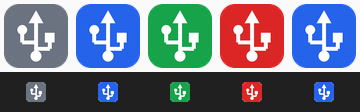
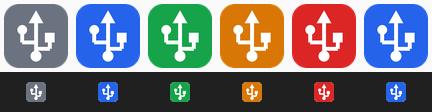
Fix false "tethering on" report; add no-carrier state (1.2.0)
Tether detection treated the mere existence of rndis0/ncm0/usb0 as proof
that sharing worked. It is not: after an Android upgrade an orphaned usb0
interface can stay up and even hold the tether IP while the USB carrier
never comes up, so zero packets flow in either direction. The app showed
green throughout a real outage.

Detection now keys on the LOWER_UP flag in the interface flags, which is
the signal that actually distinguishes a live link from a dead one. A new
amber "looks on but no data" state surfaces the dead-link case and tells
the user to reboot the phone, which is what clears the orphaned interface;
the watcher no longer retries setFunctions pointlessly in that state.

Also stop the SDK appending "+<git-hash>" to InformationalVersion, which
was leaking into the installer filename.

diff --git a/src/UsbTetherAuto/AdbService.cs b/src/UsbTetherAuto/AdbService.cs
@@ -18,6 +18,21 @@ internal enum DeviceState
 
 internal sealed record DeviceInfo(DeviceState State, string? Serial);
 
+/// <summary>
+/// Tethering arabiriminin gercek durumu. Arabirimin VAR OLMASI paylasimin
+/// calistigi anlamina gelmez: bir Android guncellemesinden sonra sahipsiz kalan
+/// arabirim IP bile alabilir, ama tasiyici (carrier) hic kalkmaz ve tek paket akmaz.
+/// </summary>
+internal enum TetherLink
+{
+    /// <summary>Tethering arabirimi yok.</summary>
+    Off,
+    /// <summary>Arabirim var ama tasiyici yok - veri akmiyor.</summary>
+    NoCarrier,
+    /// <summary>Arabirim ayakta ve tasiyici var - veri akiyor.</summary>
+    Up
+}
+
 /// <summary>Tethering'i acmak icin denenecek bir yontem.</summary>
 internal sealed record TetherMethod(string Name, string Description, string[] Args);
 
@@ -41,7 +56,10 @@ internal sealed partial class AdbService(Func<string?> adbPathProvider)
     [GeneratedRegex(@"mCurrentFunctions\s*[:=]\s*([^\r\n]*)", RegexOptions.IgnoreCase)]
     private static partial Regex CurrentFunctionsRegex();
 
-    [GeneratedRegex(@"\b(rndis0|ncm0|usb0)\b", RegexOptions.IgnoreCase)]
+    // "47: rndis0: <BROADCAST,MULTICAST,UP,LOWER_UP> mtu 1500 ..." satirindan
+    // arabirim adini ve bayraklarini birlikte yakalar.
+    [GeneratedRegex(@"^\s*\d+:\s*(rndis\d|ncm\d|usb\d):\s*<([^>]*)>",
+                    RegexOptions.IgnoreCase | RegexOptions.Multiline)]
     private static partial Regex TetherInterfaceRegex();
 
     // ---------------- adb.exe bulma ----------------
@@ -204,22 +222,31 @@ internal sealed partial class AdbService(Func<string?> adbPathProvider)
             : model;
     }
 
-    /// <summary>Tethering acik mi? Iki bagimsiz sinyale bakilir.</summary>
-    public async Task<bool> IsTetheredAsync(string? serial, CancellationToken token)
+    /// <summary>
+    /// Tethering arabiriminin gercek durumunu olcer.
+    ///
+    /// Yalnizca arabirimin varligina veya USB fonksiyonunun RNDIS olmasina bakmak
+    /// yaniltici: ikisi de dogruyken tasiyici kalkmayabilir ve hicbir veri akmaz.
+    /// Belirleyici sinyal arabirim bayraklarindaki LOWER_UP'tir.
+    /// </summary>
+    public async Task<TetherLink> GetLinkAsync(string? serial, CancellationToken token)
     {
-        var usb = await ShellAsync(serial, token, "shell", "dumpsys", "usb").ConfigureAwait(false);
-        var match = CurrentFunctionsRegex().Match(usb);
-        if (match.Success)
-        {
-            var functions = match.Groups[1].Value;
-            if (functions.Contains("rndis", StringComparison.OrdinalIgnoreCase) ||
-                functions.Contains("ncm", StringComparison.OrdinalIgnoreCase))
-                return true;
-        }
-
         var links = await ShellAsync(serial, token, "shell", "ip", "-o", "link").ConfigureAwait(false);
-        return TetherInterfaceRegex().IsMatch(links);
+
+        var best = TetherLink.Off;
+        foreach (Match m in TetherInterfaceRegex().Matches(links))
+        {
+            // LOWER_UP = USB tasiyicisi var. UP tek basina yeterli degil.
+            if (m.Groups[2].Value.Contains("LOWER_UP", StringComparison.OrdinalIgnoreCase))
+                return TetherLink.Up;
+            best = TetherLink.NoCarrier;
+        }
+        return best;
     }
+
+    /// <summary>Yalnizca paylasim gercekten calisiyorsa true.</summary>
+    public async Task<bool> IsTetheredAsync(string? serial, CancellationToken token) =>
+        await GetLinkAsync(serial, token).ConfigureAwait(false) == TetherLink.Up;
 
     // ---------------- acma / kapama ----------------
 

diff --git a/src/UsbTetherAuto/TetherWatcher.cs b/src/UsbTetherAuto/TetherWatcher.cs
@@ -8,6 +8,8 @@ internal enum TetherStatus
     Connected,
     Enabling,
     Tethered,
+    /// <summary>Arabirim ayakta ama tasiyici yok: paylasim acik gorunur, veri akmaz.</summary>
+    NoCarrier,
     Failed
 }
 
@@ -25,6 +27,7 @@ internal sealed class StatusEventArgs(TetherStatus status, string? deviceModel, 
         TetherStatus.Connected => "Bagli - tethering kapali",
         TetherStatus.Enabling => "Tethering aciliyor...",
         TetherStatus.Tethered => "Tethering acik",
+        TetherStatus.NoCarrier => "Acik gorunuyor ama veri akmiyor",
         TetherStatus.Failed => "Tethering acilamadi",
         _ => "Bilinmiyor"
     };
@@ -139,7 +142,9 @@ internal sealed class TetherWatcher(AdbService adb, AppSettings settings) : IDis
             Logger.Info($"Cihaz baglandi: {_model ?? "(model okunamadi)"} [{_serial}]");
         }
 
-        if (await adb.IsTetheredAsync(_serial, token).ConfigureAwait(false))
+        var link = await adb.GetLinkAsync(_serial, token).ConfigureAwait(false);
+
+        if (link == TetherLink.Up)
         {
             var wasOff = _status != TetherStatus.Tethered;
             _failures = 0;
@@ -147,6 +152,20 @@ internal sealed class TetherWatcher(AdbService adb, AppSettings settings) : IDis
             if (wasOff)
                 Raise(Notification, new NotifyEventArgs("USB Tether Auto",
                     $"{_model ?? "Telefon"} - internet paylasimi acik.", ToolTipIcon.Info));
+            return;
+        }
+
+        if (link == TetherLink.NoCarrier)
+        {
+            // Arabirim duruyor ama USB tasiyicisi kalkmamis. setFunctions'i tekrar
+            // denemek bu durumu duzeltmiyor; kullaniciya ne yapacagini soyluyoruz.
+            var wasOk = _status != TetherStatus.NoCarrier;
+            SetStatus(TetherStatus.NoCarrier,
+                "Telefonu yeniden baslatin: paylasim arabirimi takili kalmis olabilir.");
+            if (wasOk)
+                Raise(Notification, new NotifyEventArgs("USB Tether Auto",
+                    "Paylasim acik gorunuyor ama veri akmiyor. Telefonu yeniden baslatin.",
+                    ToolTipIcon.Warning));
             return;
         }
 

diff --git a/src/UsbTetherAuto/IconStore.cs b/src/UsbTetherAuto/IconStore.cs
@@ -14,6 +14,7 @@ internal static class IconStore
     {
         TetherStatus.Tethered => Get("trayTethered"),
         TetherStatus.Connected or TetherStatus.Enabling => Get("trayConnected"),
+        TetherStatus.NoCarrier => Get("trayWarn"),
         TetherStatus.Failed or TetherStatus.AdbMissing or TetherStatus.Unauthorized => Get("trayError"),
         _ => Get("trayOff")
     };
@@ -22,6 +23,7 @@ internal static class IconStore
     {
         TetherStatus.Tethered => Color.FromArgb(0x16, 0xA3, 0x4A),
         TetherStatus.Connected or TetherStatus.Enabling => Color.FromArgb(0x25, 0x63, 0xEB),
+        TetherStatus.NoCarrier => Color.FromArgb(0xD9, 0x77, 0x06),
         TetherStatus.Failed or TetherStatus.AdbMissing or TetherStatus.Unauthorized => Color.FromArgb(0xDC, 0x26, 0x26),
         _ => Color.FromArgb(0x6B, 0x72, 0x80)
     };

diff --git a/src/UsbTetherAuto/MainForm.cs b/src/UsbTetherAuto/MainForm.cs
@@ -439,9 +439,10 @@ internal sealed class MainForm : Form
         if (e.Status == TetherStatus.Unauthorized) parts.Add("Telefondaki izin penceresini onaylayin.");
         _detail.Text = string.Join("  -  ", parts);
 
-        var deviceReady = e.Status is TetherStatus.Connected or TetherStatus.Tethered or TetherStatus.Failed;
+        var deviceReady = e.Status is TetherStatus.Connected or TetherStatus.Tethered
+                                   or TetherStatus.NoCarrier or TetherStatus.Failed;
         _btnEnable.Enabled = !_busy && deviceReady && e.Status != TetherStatus.Tethered;
-        _btnDisable.Enabled = !_busy && e.Status == TetherStatus.Tethered;
+        _btnDisable.Enabled = !_busy && e.Status is TetherStatus.Tethered or TetherStatus.NoCarrier;
         _btnRefresh.Enabled = !_busy;
     }
 

diff --git a/src/UsbTetherAuto/TrayApplicationContext.cs b/src/UsbTetherAuto/TrayApplicationContext.cs
@@ -91,8 +91,9 @@ internal sealed class TrayApplicationContext : ApplicationContext
             _tray.Text = tip.Length > 62 ? tip[..62] : tip;
 
             _miStatus.Text = $"Durum: {e.Headline}";
-            _miEnable.Enabled = e.Status is TetherStatus.Connected or TetherStatus.Failed;
-            _miDisable.Enabled = e.Status == TetherStatus.Tethered;
+            _miEnable.Enabled = e.Status is TetherStatus.Connected or TetherStatus.Failed
+                                         or TetherStatus.NoCarrier;
+            _miDisable.Enabled = e.Status is TetherStatus.Tethered or TetherStatus.NoCarrier;
         }
 
         RunOnUi(Apply);

diff --git a/tools/make_icons.py b/tools/make_icons.py
@@ -11,6 +11,7 @@ STATES = {
     'trayOff':      (0x6B, 0x72, 0x80, 255),   # gri  - cihaz yok
     'trayConnected':(0x25, 0x63, 0xEB, 255),   # mavi - bagli, tethering kapali
     'trayTethered': (0x16, 0xA3, 0x4A, 255),   # yesil- tethering acik
+    'trayWarn':     (0xD9, 0x77, 0x06, 255),   # amber - acik ama veri akmiyor
     'trayError':    (0xDC, 0x26, 0x26, 255),   # kirmizi - hata
     'usb':          (0x25, 0x63, 0xEB, 255),   # uygulama ikonu
 }

diff --git a/README.md b/README.md
@@ -13,7 +13,8 @@ setFunctions` destekleyen diger Android cihazlarda da calismasi beklenir.
 |---|---|
 | Gri | Telefon bagli degil |
 | Mavi | Telefon bagli, tethering kapali (aciliyor) |
-| Yesil | Tethering acik |
+| Yesil | Tethering acik ve veri akiyor |
+| Amber | Arabirim var ama tasiyici yok - acik gorunuyor, veri akmiyor |
 | Kirmizi | adb yok / izin verilmedi / acilamadi |
 
 ## Neden bir uygulama degil de PC tarafinda?
@@ -163,6 +164,22 @@ Kalan secenekler:
   (`adb shell pm grant <paket> android.permission.WRITE_SECURE_SETTINGS`)
   ve "Power connected" tetigine tethering aksiyonunu baglamak.
 - Root varsa `root-rndis` yontemi zaten sirada.
+
+**Simge amber: "Acik gorunuyor ama veri akmiyor"** - Telefonu yeniden baslatin.
+Bu, pratikte gorulmus gercek bir ariza: bir Android surum yukseltmesinden sonra
+telefonda `usb0` adinda sahipsiz bir arabirim kalabiliyor. Android'in tethering
+yapilandirmasi USB arabirimlerini `[usb\d, rndis\d]` sirasiyla aradigi icin
+IP'yi ve DHCP sunucusunu o olu arabirime bagliyor; gercek gadget arabirimi
+(`rndis0`) ise `NO-CARRIER` durumunda bekliyor. Sonuc: telefon da PC de
+"bagli" der, Windows `169.254.x.x` (APIPA) alir, iki yonde de sifir paket akar.
+Telefonu yeniden baslatmak kalinti arabirimi siler ve paylasim duzgun arabirime
+baglanir. Sorunu teshis etmek icin:
+
+```bash
+adb shell ip -o link | findstr "rndis ncm usb"
+```
+
+`LOWER_UP` goruyorsaniz tasiyici vardir; `NO-CARRIER` goruyorsaniz yoktur.
 
 **Tethering acilirken kisa bir kopma oluyor** - Normaldir. `setFunctions`
 USB konfigurasyonunu degistirdigi icin adb baglantisi dusup geri gelir;

diff --git a/CHANGELOG.md b/CHANGELOG.md
@@ -2,6 +2,24 @@
 
 Bu proje [Semantic Versioning](https://semver.org/lang/tr/) kullanir.
 
+## [1.2.0] - 2026-11-10
+
+Tethering tespiti artik yalan soylemiyor.
+
+### Duzeltildi
+- **Yanlis "acik" bildirimi.** Uygulama paylasimin acik olup olmadigina
+  `rndis0`/`ncm0`/`usb0` arabiriminin yalnizca *var olmasina* bakarak karar
+  veriyordu. Bu yeterli degil: bir Android guncellemesinden sonra sahipsiz kalan
+  arabirim ayakta kalabiliyor, IP bile alabiliyor, ama USB tasiyicisi hic
+  kalkmadigi icin tek paket akmiyor. Uygulama bu durumda yesil yanip "Tethering
+  acik" diyordu. Artik belirleyici sinyal arabirim bayraklarindaki `LOWER_UP`.
+
+### Eklendi
+- **"Acik gorunuyor ama veri akmiyor" durumu** (amber simge). Arabirim var ama
+  tasiyici yoksa bu durum gosteriliyor ve "Telefonu yeniden baslatin" oneriliyor
+  - pratikte bu arizayi cozen sey bu. Uygulama bu durumda `setFunctions`'i
+  bosuna tekrar denemiyor.
+
 ## [1.1.0] - 2026-08-26
 
 Son kullaniciya yonelik surum: artik kurulum dosyasi var ve telefon hazirligi
